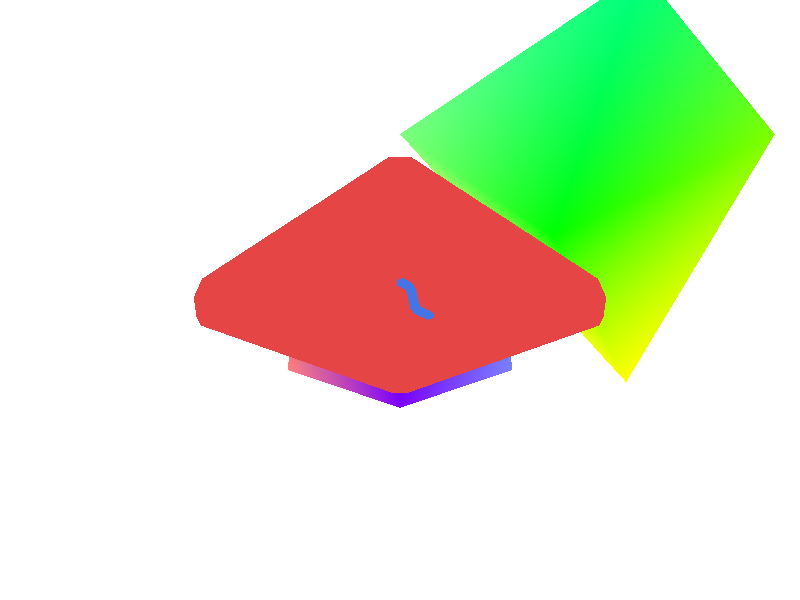
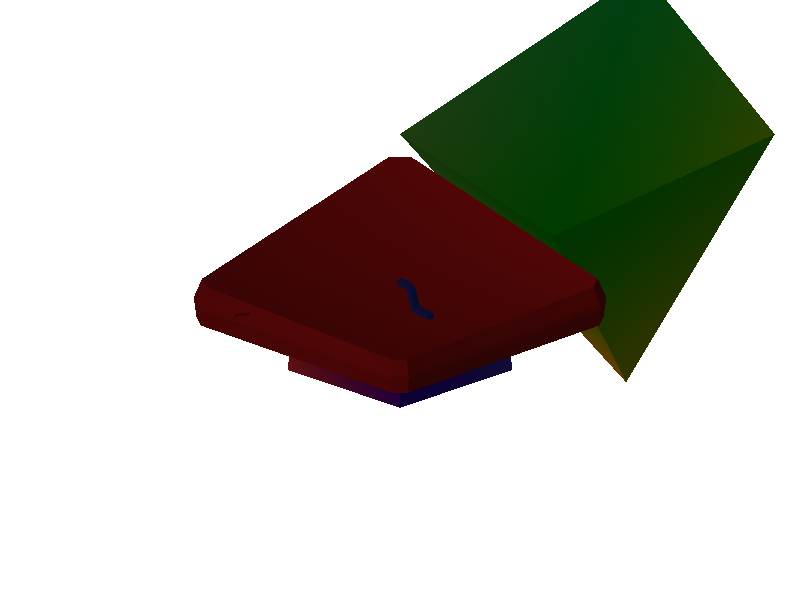
screen-13-cli-1 - WIP 8 - Add lighting.

Changed region(s): [[0.2188, 0.0, 0.9688, 0.69]]

diff --git a/experimentation/screen-13-cli-1/src/main.rs b/experimentation/screen-13-cli-1/src/main.rs
@@ -24,6 +24,11 @@ struct Vertex {
 #[derive(Clone, Copy, Pod, Zeroable)]
 struct PushConstants {
     mvp: [[f32; 4]; 4],
+    model: [[f32; 4]; 4],
+    light_pos: [f32; 3],
+    light_intensity: f32,
+    light_color: [f32; 3],
+    _padding: f32, // Align to 16 bytes
 }
 
 fn main() -> Result<(), Box<dyn std::error::Error>> {
@@ -199,6 +204,24 @@ fn main() -> Result<(), Box<dyn std::error::Error>> {
     loop {
         let t = frame_index as f32 / FRAME_COUNT as f32;
 
+        // --- Light Animation ---
+        // Orbit the light around the scene
+        let light_orbit_radius = 8.0;
+        let light_height = 5.0;
+        let light_angle = t * TAU;
+        let light_pos = Vec3::new(
+            light_orbit_radius * light_angle.cos(),
+            light_height + 2.0 * (t * TAU * 2.0).sin(), // Also animate height
+            light_orbit_radius * light_angle.sin(),
+        );
+
+        // Animate light intensity (pulse between 0.5 and 2.0)
+        let light_intensity = 1.0 + 0.5 * (t * TAU * 3.0).sin();
+
+        // Animate light color (shift through colors)
+        let light_hue = (t * 0.5) % 1.0;
+        let light_color = hsv_to_rgb(light_hue, 0.8, 1.0);
+
         // --- Rotation ---
         let cube_rotation = t * TAU;
         let cube_model = Mat4::from_rotation_y(cube_rotation);
@@ -229,17 +252,34 @@ fn main() -> Result<(), Box<dyn std::error::Error>> {
         let pyramid_mvp = projection * view * pyramid_model;
         let model_mvp = projection * view * model_model;
 
+        // Create push constants with lighting info
         let cube_push_constants = PushConstants {
             mvp: cube_mvp.to_cols_array_2d(),
+            model: cube_model.to_cols_array_2d(),
+            light_pos: light_pos.to_array(),
+            light_intensity,
+            light_color,
+            _padding: 0.0,
         };
 
         let pyramid_push_constants = PushConstants {
             mvp: pyramid_mvp.to_cols_array_2d(),
+            model: pyramid_model.to_cols_array_2d(),
+            light_pos: light_pos.to_array(),
+            light_intensity,
+            light_color,
+            _padding: 0.0,
         };
 
         let model_push_constants = PushConstants {
             mvp: model_mvp.to_cols_array_2d(),
+            model: model_model.to_cols_array_2d(),
+            light_pos: light_pos.to_array(),
+            light_intensity,
+            light_color,
+            _padding: 0.0,
         };
+
 
         let readback = Arc::new(Buffer::create(
             &device,
